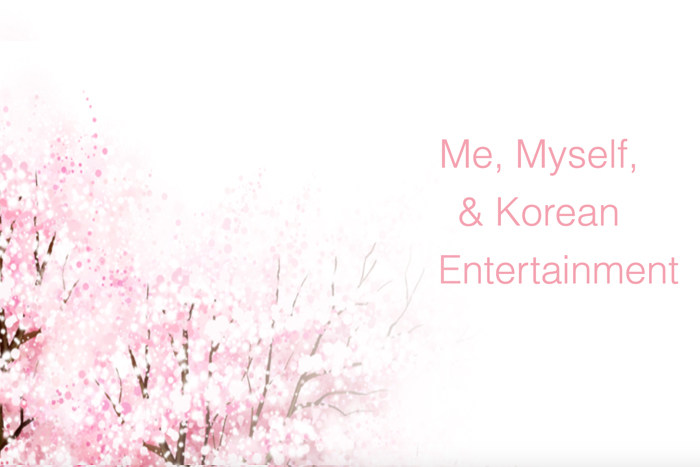
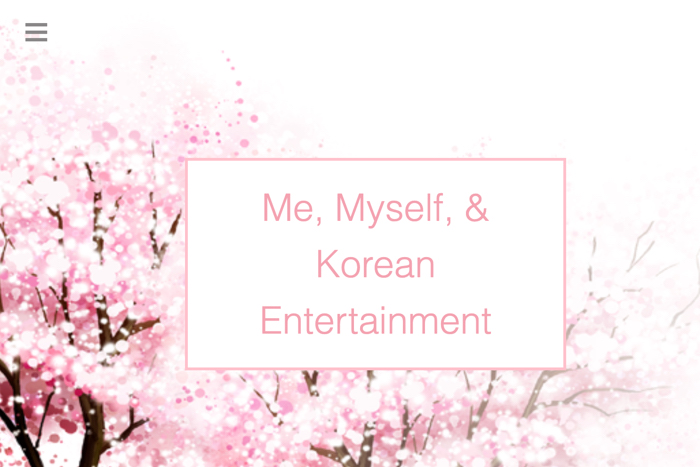
Added:
-link to korean webpage
-updated portfolio-1 image

diff --git a/index.html b/index.html
@@ -169,7 +169,7 @@
       </div>
       <div class="row no-gutters">
         <div class="col-lg-6">
-          <a class="portfolio-item" href="#!">
+          <a class="portfolio-item" href="https://npwebdesign.github.io/korean-webpage/">
             <div class="caption">
               <div class="caption-content">
                 <div class="h2">My First Webpage</div>
